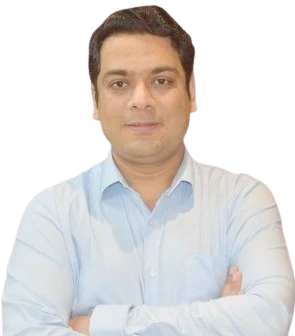
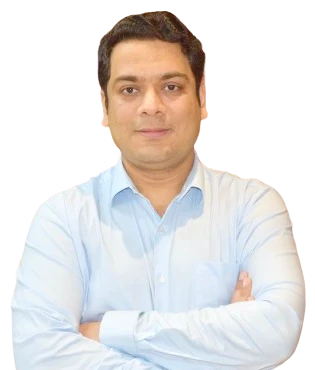
update sachin image

diff --git a/index.html b/index.html
@@ -183,6 +183,43 @@
             margin-top: 10px;
             font-weight: bold;
         }
+
+        @media (min-width: 768px) {
+            .custom-quote-carousel {
+                display: none;
+            }
+        }
+
+        /* Ensure the carousel is always visible on screens smaller than 768px */
+        @media (max-width: 767.98px) {
+            .custom-quote-carousel {
+                display: block;
+            }
+        }
+
+        .quote-slide {
+            padding: 20px;
+            background-color: #f8f9fa;
+            border-radius: 5px;
+            text-align: center;
+            font-style: italic;
+        }
+
+        .quote-slide p {
+            font-size: 1.2rem;
+            margin-bottom: 10px;
+        }
+
+        .quote-slide h5 {
+            font-size: 1rem;
+            font-weight: bold;
+            margin-top: 5px;
+        }
+
+        .custom-control-prev,
+        .custom-control-next {
+            width: 30px;
+        }
     </style>
 </head>
 
@@ -497,6 +534,8 @@
                 <li data-target="#mainSlider" data-slide-to="0" class="active"></li>
                 <li data-target="#mainSlider" data-slide-to="1"></li>
                 <li data-target="#mainSlider" data-slide-to="2"></li>
+                <li data-target="#mainSlider" data-slide-to="3"></li>
+                <li data-target="#mainSlider" data-slide-to="4"></li>
             </ol>
             <div class="carousel-inner">
                 <div class="carousel-item active">
@@ -546,6 +585,35 @@
                         </div>
                     </div>
                 </div>
+                <div class="carousel-item">
+                    <img src="https://t4.ftcdn.net/jpg/01/17/72/73/240_F_117727368_9cKu3lD12oD2YgDqKTaZltFkpytS7F97.jpg" alt="State-of-the-Art Facilities" class="d-block w-100">
+                    <div class="carousel-caption d-none d-md-block">
+                        <div class="card">
+                            <div class="card-body">
+                                <h5 class="card-title">Restoring Mobility, Enhancing Lives</h5>
+                                <p class="card-text" style="color:#7a5a4b">
+                                    Our expert team is committed to helping patients regain their mobility and improve
+                                    their quality of life.
+                                </p>
+
+                            </div>
+                        </div>
+                    </div>
+                </div>
+                <div class="carousel-item">
+                    <img src="https://t3.ftcdn.net/jpg/00/88/89/52/240_F_88895248_9qmoQl2ewt72XrHbLgG73yFPovmhA9xA.jpg" alt="State-of-the-Art Facilities" class="d-block w-100">
+                    <div class="carousel-caption d-none d-md-block">
+                        <div class="card">
+                            <div class="card-body">
+                                <h5 class="card-title">Your Path to Recovery Begins Here</h5>
+                                <p class="card-text" style="color:#7a5a4b">
+                                    We provide personalized care to guide you through every step of your recovery
+                                    journey, ensuring the best outcomes.
+                                </p>
+                            </div>
+                        </div>
+                    </div>
+                </div>
             </div>
             <a class="carousel-control-prev" href="#mainSlider" role="button" data-slide="prev">
                 <span class="carousel-control-prev-icon" aria-hidden="true"></span>
@@ -558,6 +626,48 @@
         </div>
     </div>
 
+    <div id="quoteCarousel" class="carousel slide custom-quote-carousel" data-ride="carousel" data-interval="2000">
+        <div class="carousel-inner">
+            <div class="carousel-item active">
+                <div class="quote-slide">
+                    <h5>Gifting Couples The Joy of Parenthood</h5>
+                    <p>"Our dedicated team strives to turn that dream into reality, gifting couples the joy of
+                        building a family."</p>
+                </div>
+            </div>
+            <div class="carousel-item">
+                <div class="quote-slide">
+                    <h5>Experience Exceptional Care</h5>
+                    <p>"Our commitment to excellence extends beyond success rates. With compassionate and
+                        personalized care, we ensure that every step of your IVF journey is supported by our
+                        dedicated team of experts."</p>
+                </div>
+            </div>
+            <div class="carousel-item">
+                <div class="quote-slide">
+                    <h5>Discover State-of-the-Art Facilities</h5>
+                    <p>"Embark on your IVF journey with confidence, knowing that you're supported by the
+                        latest advancements in medical technology and world-class facilities. Your comfort and
+                        safety are our top priorities."</p>
+                </div>
+            </div>
+            <div class="carousel-item">
+                <div class="quote-slide">
+                    <h5>Restoring Mobility, Enhancing Lives</h5>
+                    <p>"Our expert team is committed to helping patients regain their mobility and improve
+                        their quality of life."</p>
+                </div>
+            </div>
+            <div class="carousel-item">
+                <div class="quote-slide">
+                    <h5>Your Path to Recovery Begins Here</h5>
+                    <p>"We provide personalized care to guide you through every step of your recovery
+                        journey, ensuring the best outcomes."</p>
+                </div>
+            </div>
+        </div>
+    </div>
+    
 
     <!-- ivf section -->
     <section id="ivf-services" class="my-5">
@@ -892,7 +1002,7 @@
         <div class="row mt-3">
             <!-- First Image -->
             <div class="col-md-6 d-flex align-items-center">
-                <img src="sachin.png" alt="Doctor 1" class="img-fluid rounded"
+                <img src="sachin.webp" alt="Doctor 1" class="img-fluid rounded"
                     style="height: 98%; margin-bottom: 20px;">
             </div>
 
@@ -1191,6 +1301,14 @@
                 clearTimeout(timeout);
             });
         });
+    </script>
+    <script>
+        $(document).ready(function () {
+            $('#quoteCarousel').carousel({
+                interval: 2000
+            });
+        });
+
     </script>
 
 </body>

diff --git a/doctors.html b/doctors.html
@@ -341,7 +341,7 @@
         <div class="row">
             <div class="col-md-3 col-sm-6 my-2">
                 <div class="doctor-card">
-                    <img src="sachin.png" alt="Doctor Name" class="doctor-img">
+                    <img src="sachin.webp" alt="Doctor Name" class="doctor-img">
                     <div class="card-body">
                         <h5 class="card-title">Dr. Sachin Zambare</h5>
                         <p class="card-text">Consultant Orthopaedic & Spine Surgeon</p>

diff --git a/sterlingDoctor/doct1.html b/sterlingDoctor/doct1.html
@@ -277,7 +277,7 @@
       <div class="row align-items-center info-box">
          <div class="col-md-4">
             <div class="zoom-effect-container">
-               <img src="../sachin.png" alt="Doctor" class="image-card img-fluid rounded">
+               <img src="../sachin.webp" alt="Doctor" class="image-card img-fluid rounded">
             </div>
          </div>
          <div class="col-md-8">

diff --git a/orthopaedic/ortho10.html b/orthopaedic/ortho10.html
@@ -840,7 +840,7 @@
             <div class="text-center">
                 <h4 style="font-weight: bold;">Our Orthopaedic Specialist</h4>
             </div>
-            <img src="../sachin.png" alt="IVF Specialist">
+            <img src="../sachin.webp" alt="IVF Specialist">
         </div>
     </div>
 

diff --git a/orthopaedic/ortho11.html b/orthopaedic/ortho11.html
@@ -816,7 +816,7 @@
             <div class="text-center">
                 <h4 style="font-weight: bold;">Our Orthopaedic Specialist</h4>
             </div>
-            <img src="../sachin.png" alt="IVF Specialist">
+            <img src="../sachin.webp" alt="IVF Specialist">
         </div>
     </div>
 

diff --git a/orthopaedic/ortho12.html b/orthopaedic/ortho12.html
@@ -767,7 +767,7 @@
             <div class="text-center">
                 <h4 style="font-weight: bold;">Our Orthopaedic Specialist</h4>
             </div>
-            <img src="../sachin.png" alt="IVF Specialist">
+            <img src="../sachin.webp" alt="IVF Specialist">
         </div>
     </div>
 

diff --git a/orthopaedic/ortho2.html b/orthopaedic/ortho2.html
@@ -826,7 +826,7 @@
             <div class="text-center">
                 <h4 style="font-weight: bold;">Our Orthopaedic Specialist</h4>
             </div>
-            <img src="../sachin.png" alt="IVF Specialist">
+            <img src="../sachin.webp" alt="IVF Specialist">
         </div>
     </div>
 

diff --git a/orthopaedic/ortho3.html b/orthopaedic/ortho3.html
@@ -835,7 +835,7 @@
             <div class="text-center">
                 <h4 style="font-weight: bold;">Our Orthopaedic Specialist</h4>
             </div>
-            <img src="../sachin.png" alt="IVF Specialist">
+            <img src="../sachin.webp" alt="IVF Specialist">
         </div>
     </div>
 

diff --git a/orthopaedic/ortho4.html b/orthopaedic/ortho4.html
@@ -826,7 +826,7 @@
             <div class="text-center">
                 <h4 style="font-weight: bold;">Our Orthopaedic Specialist</h4>
             </div>
-            <img src="../sachin.png" alt="IVF Specialist">
+            <img src="../sachin.webp" alt="IVF Specialist">
         </div>
     </div>
 

diff --git a/orthopaedic/ortho6.html b/orthopaedic/ortho6.html
@@ -817,7 +817,7 @@
             <div class="text-center">
                 <h4 style="font-weight: bold;">Our Orthopaedic Specialist</h4>
             </div>
-            <img src="../sachin.png" alt="IVF Specialist">
+            <img src="../sachin.webp" alt="IVF Specialist">
         </div>
     </div>
 

diff --git a/orthopaedic/ortho7.html b/orthopaedic/ortho7.html
@@ -764,7 +764,7 @@
             <div class="text-center">
                 <h4 style="font-weight: bold;">Our Orthopaedic Specialist</h4>
             </div>
-            <img src="../sachin.png" alt="IVF Specialist">
+            <img src="../sachin.webp" alt="IVF Specialist">
         </div>
     </div>
 

diff --git a/orthopaedic/ortho8.html b/orthopaedic/ortho8.html
@@ -765,7 +765,7 @@
             <div class="text-center">
                 <h4 style="font-weight: bold;">Our Orthopaedic Specialist</h4>
             </div>
-            <img src="../sachin.png" alt="IVF Specialist">
+            <img src="../sachin.webp" alt="IVF Specialist">
         </div>
     </div>
 
